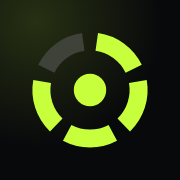
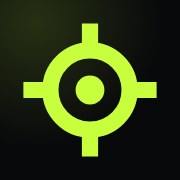
Make the mark the Check In crosshair, with no number in it
The five-tick mark baked in a goal of 5, but every club and player can
set their own weekly goal. The mark is now the crosshair from the Check
In button. Regenerated the app icons and iPhone launch screens from it.

Claude-Session: https://claude.ai/code/session_01DykpazEcq2b7r7Nk8JdgMG

Changed region(s): [[0.1111, 0.1111, 0.8889, 0.8889], [0.3889, 0.3889, 0.6111, 0.6111]]

diff --git a/src/components/Mark.tsx b/src/components/Mark.tsx
@@ -3,51 +3,59 @@
 import { motion } from "motion/react";
 
 /**
- * The club's mark: a target ringed by five ticks, one per check-in of the
- * week. Four lit, one to go. The same drawing is the app icon (public/icon.svg).
+ * The club's mark: the crosshair from the Check In button. No number in it,
+ * since every club (and every player) can have a different weekly goal.
+ * The same drawing is the app icon (public/icon.svg).
  */
-const ARCS = [
-  "M53.76 23.26A27 27 0 0 1 74.27 38.16",
-  "M76.59 45.31A27 27 0 0 1 68.76 69.42",
-  "M62.68 73.84A27 27 0 0 1 37.32 73.84",
-  "M31.24 69.42A27 27 0 0 1 23.41 45.31",
-  "M25.73 38.16A27 27 0 0 1 46.24 23.26",
-];
-const OFF = "rgb(255 255 255 / 0.16)";
+const TICKS = ["M50 13v13", "M74 50h13", "M50 74v13", "M13 50h13"];
+const LIME = "var(--color-volt)";
 
-export function Mark({ size = 24, lit = 4, draw = false, className }: { size?: number; lit?: number; draw?: boolean; className?: string }) {
+export function Mark({ size = 24, draw = false, className }: { size?: number; draw?: boolean; className?: string }) {
+  if (!draw) {
+    return (
+      <svg width={size} height={size} viewBox="12 12 76 76" aria-hidden className={className}>
+        <circle cx="50" cy="50" r="22" fill="none" stroke={LIME} strokeWidth={9} />
+        <path d={TICKS.join("")} stroke={LIME} strokeWidth={9} />
+        <circle cx="50" cy="50" r="8" fill={LIME} />
+      </svg>
+    );
+  }
+  // Drawn in: the ring traces round from the top, the ticks snap on, then the dot lands.
   return (
-    <svg width={size} height={size} viewBox="17 17 66 66" aria-hidden className={className}>
-      {ARCS.map((d, i) =>
-        draw ? (
-          <motion.path
-            key={i}
-            d={d}
-            fill="none"
-            stroke={i < lit ? "var(--color-volt)" : OFF}
-            strokeWidth={10}
-            initial={{ pathLength: 0, opacity: 0 }}
-            animate={{ pathLength: 1, opacity: 1 }}
-            transition={{ delay: 0.15 + i * 0.09, duration: 0.38, ease: [0.2, 0.8, 0.2, 1] }}
-          />
-        ) : (
-          <path key={i} d={d} fill="none" stroke={i < lit ? "var(--color-volt)" : OFF} strokeWidth={10} />
-        ),
-      )}
-      {draw ? (
-        <motion.circle
-          cx="50"
-          cy="50"
-          r="9"
-          fill="var(--color-volt)"
-          initial={{ scale: 0 }}
-          animate={{ scale: 1 }}
-          style={{ transformOrigin: "50px 50px" }}
-          transition={{ delay: 0.62, type: "spring", stiffness: 420, damping: 16 }}
+    <svg width={size} height={size} viewBox="12 12 76 76" aria-hidden className={className}>
+      <motion.circle
+        cx="50"
+        cy="50"
+        r="22"
+        fill="none"
+        stroke={LIME}
+        strokeWidth={9}
+        transform="rotate(-90 50 50)"
+        initial={{ pathLength: 0 }}
+        animate={{ pathLength: 1 }}
+        transition={{ delay: 0.15, duration: 0.5, ease: [0.2, 0.8, 0.2, 1] }}
+      />
+      {TICKS.map((d, i) => (
+        <motion.path
+          key={d}
+          d={d}
+          stroke={LIME}
+          strokeWidth={9}
+          initial={{ pathLength: 0, opacity: 0 }}
+          animate={{ pathLength: 1, opacity: 1 }}
+          transition={{ delay: 0.45 + i * 0.06, duration: 0.2, ease: "easeOut" }}
         />
-      ) : (
-        <circle cx="50" cy="50" r="9" fill="var(--color-volt)" />
-      )}
+      ))}
+      <motion.circle
+        cx="50"
+        cy="50"
+        r="8"
+        fill={LIME}
+        initial={{ scale: 0 }}
+        animate={{ scale: 1 }}
+        style={{ transformOrigin: "50px 50px" }}
+        transition={{ delay: 0.75, type: "spring", stiffness: 420, damping: 16 }}
+      />
     </svg>
   );
 }
